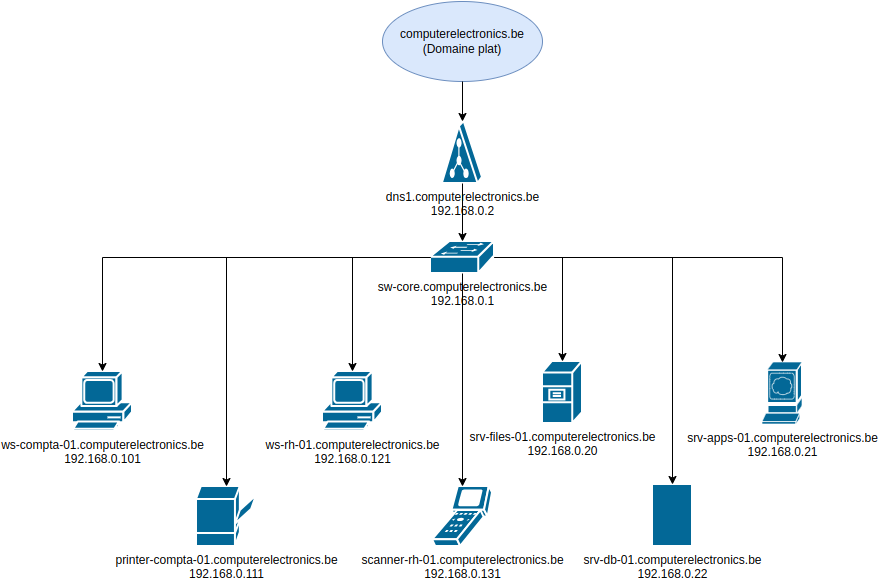
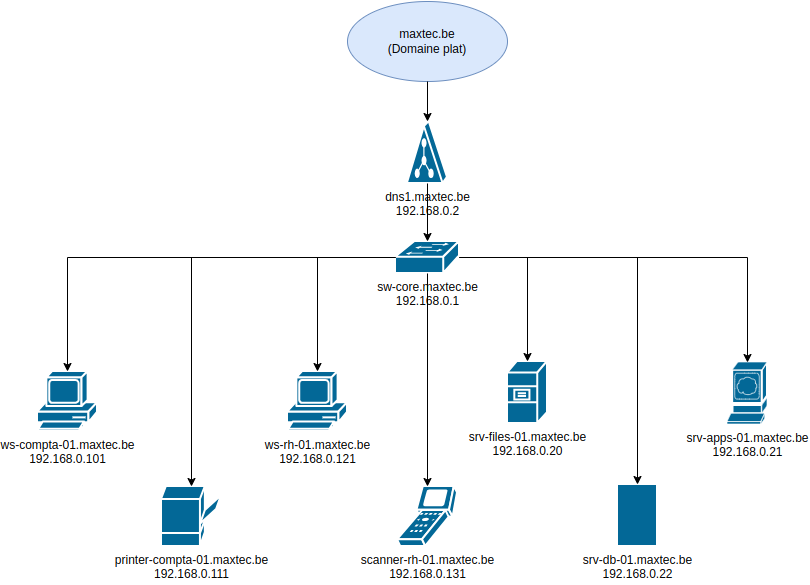
doc: change computerelectronic to maxtec, changed diagrams

diff --git a/syllabus/Installation-Windows-Server-2022-VirtualBox.md b/syllabus/Installation-Windows-Server-2022-VirtualBox.md
@@ -41,6 +41,16 @@
 
 3. ✅ Acceptez les termes de la licence lors de l'installation.
 
+
+Note: dans certaines configurations on peut avoir de problèmes pendant l'installation des machines virtuelles Windows.
+Source : https://askubuntu.com/questions/705720/virtualbox-kernel-driver-not-installed-error-despite-running-sbin-vboxconfig 
+
+```bash  
+sudo /usr/lib/virtualbox/vboxdrv.sh setup
+```
+
+Si la commande ne fonctionne pas, on doit installer gcc-12
+
 ### 💾 Téléchargement de Windows Server 2022
 
 > ⚠ **Important :** Si les images sont déjà téléchargées, passez à la section suivante
